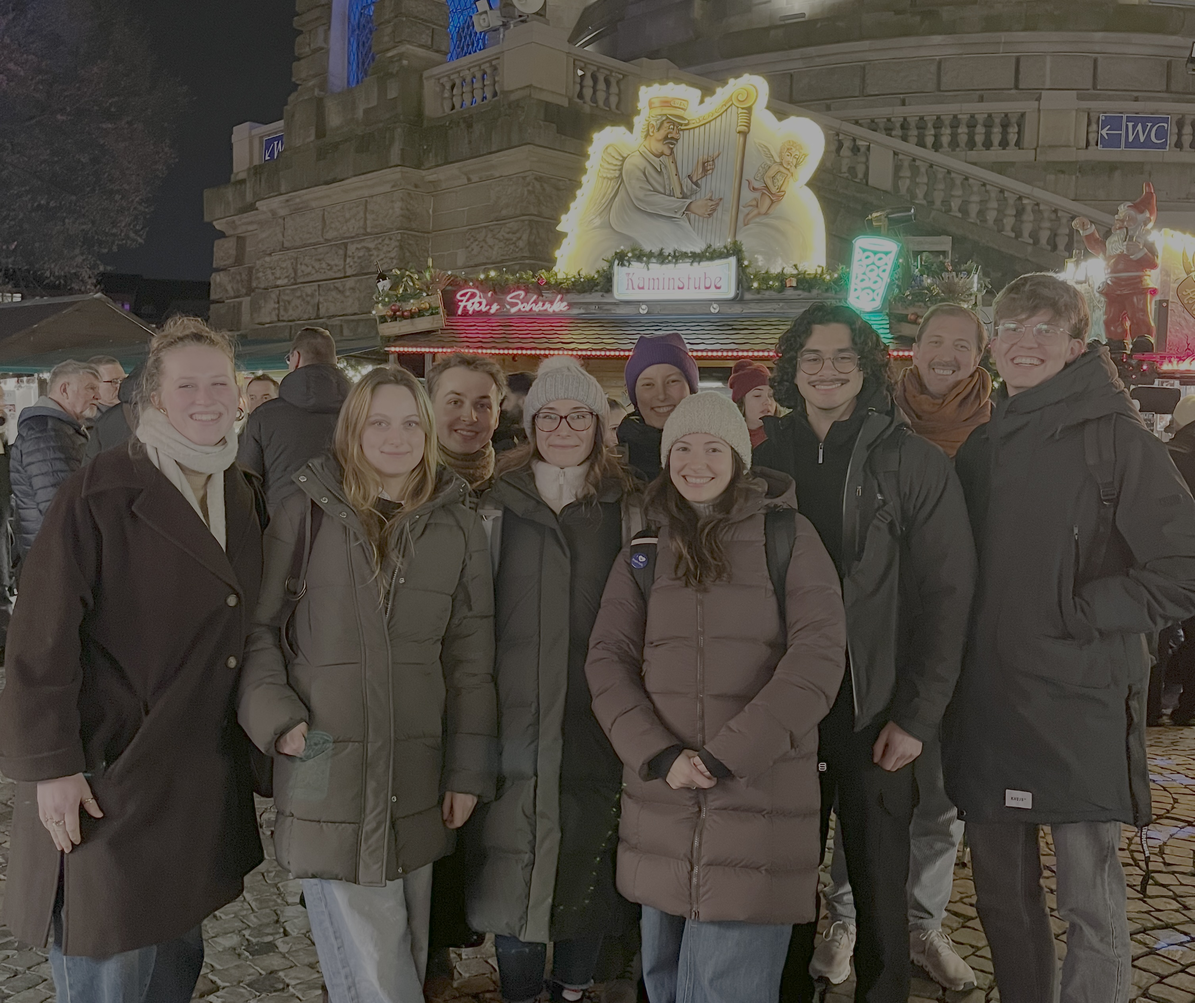
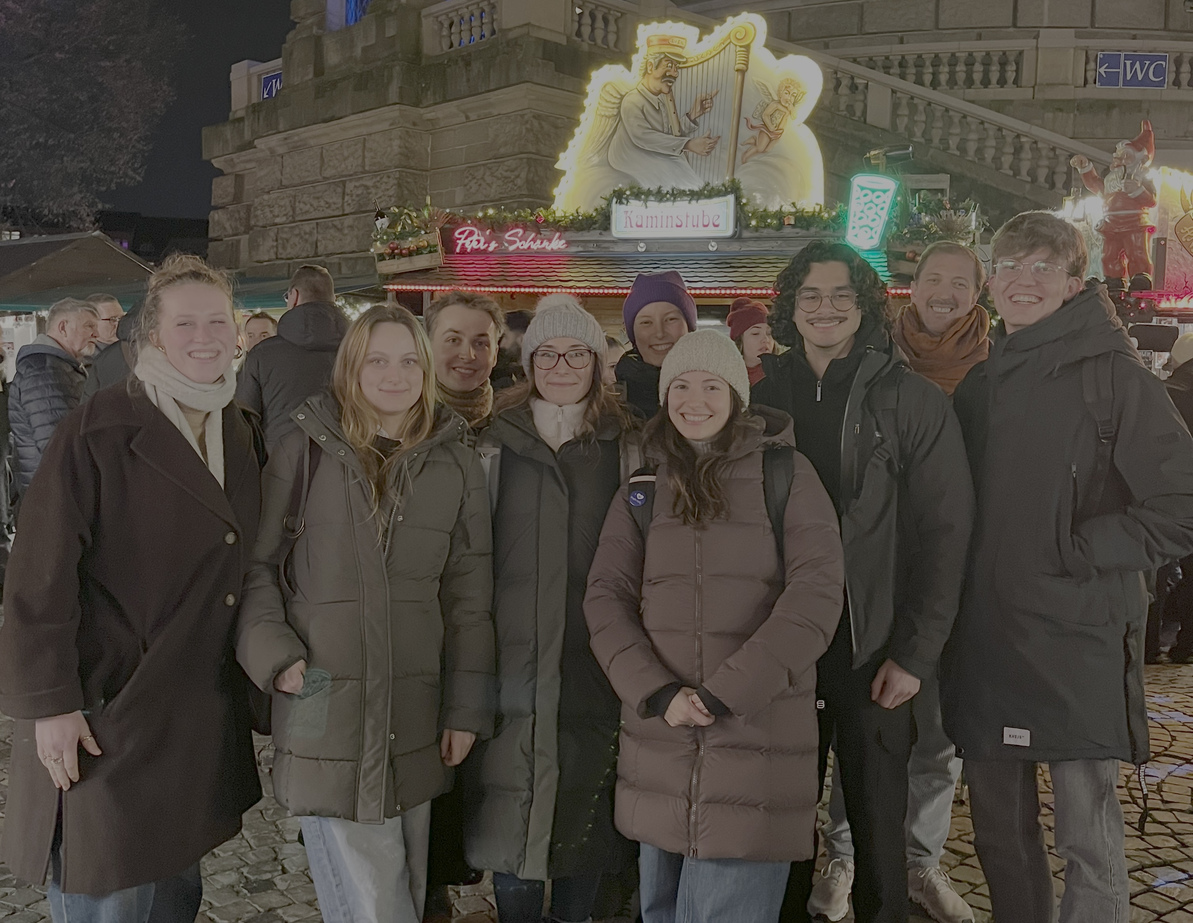
image and contact update

diff --git a/contact.html b/contact.html
@@ -46,7 +46,7 @@ layout: null
 
                     <p>
                         <i class="fa fa-envelope text-primary"></i> &nbsp;
-                        <a href="https://www.dkfz.de/en/systems-immunology-and-single-cell-biology#:~:text=Write%20a-,message" target="_blank">Send us a message via the DKFZ website</a>
+                        <a href="https://www.dkfz.de/en/systems-immunology-and-single-cell-biology#p09contact" target="_blank">Send us a message via the DKFZ website</a>
                     </p>
 
                     <hr>
